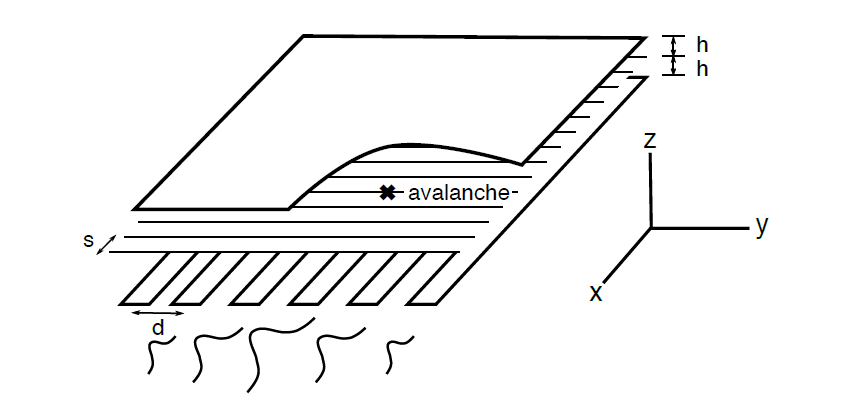
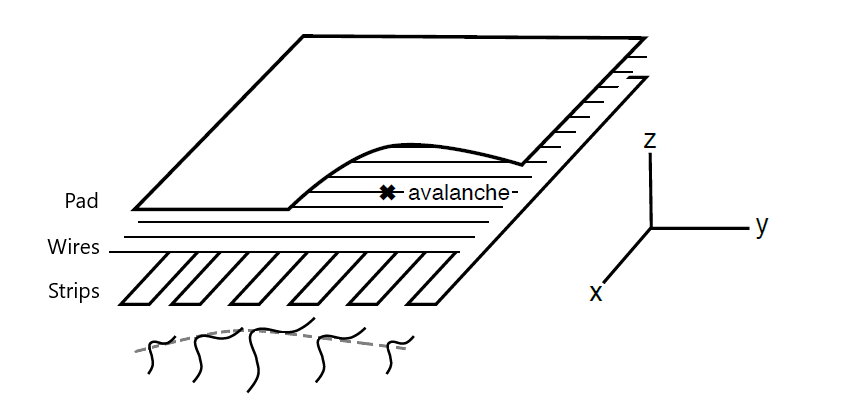
minor edits chap2

diff --git a/chapters/2_Characterization_of_sTGCs_using_cosmic_rays.tex b/chapters/2_Characterization_of_sTGCs_using_cosmic_rays.tex
@@ -32,7 +32,7 @@ Operating the chambers also required gas and high voltage. A pentane-CO$_{2}$ mi
 \section{Rebuilding cosmic muon tracks for characterization}
 % --------------------------------------------------
 
-Many of the high-level characterization metrics required rebuilding muon tracks. For events passing quality cuts \textcolor{red}{[CITE]}, the x- and y-coordinates of the ionization avalanche on each layer were extracted from the signal on the wires and strips respectively for each event, as is sketched in figure~\ref{fig:mwpc_coords}. In this work, $x$ was the coordinate perpendicular to the wires and $y$ was the coordinate perpendicular to the strips, as is drawn in figure~\ref{fig:mwpc_coords}.
+Many of the high-level characterization metrics required rebuilding muon tracks. For events passing quality cuts~\cite{lefebvre_tgc_analysis}, the x- and y-coordinates of the ionization avalanche on each layer were extracted from the signal on the wires and strips respectively for each event, as is sketched in figure~\ref{fig:mwpc_coords}. In this work, $x$ was the coordinate perpendicular to the wires and $y$ was the coordinate perpendicular to the strips, as is drawn in figure~\ref{fig:mwpc_coords}.
 
 The x-coordinate was taken as the center of the wire group with the maximum PDO, since the wire groups' pitch (\SI{36}{\milli\meter}) was larger than the typical charge spreading. Assuming that the true x-position of the hit was uniformly distributed over the width of the wire group, the uncertainty in the x-position was given by $\frac{36~mm}{\sqrt{12}} = 10~mm$~\cite{Sauli:117989}.
 
@@ -54,9 +54,8 @@ The y-coordinate was taken as the Gaussian mean of the PDO distribution across g
 
 The uncertainty in the y-coordinate could have been taken as the fitted cluster mean's statistical uncertainty; however, after comparing the difference in cluster means for different fitting algorithms in appendix~\ref{sec:appendix_clustering_cluster_fit}, \SI{60}{\micro\meter} of uncertainty was assigned.
 
-The coordinates of the avalanches' on all layers were used to reconstruct tracks in x and y respectively. Most tracks passing quality cuts were probably cosmic muons, but $\delta$-rays and noise contributed. The tracks were then used to calculate characterization metrics like electrode efficiency and spatial resolution, the details of which are discussed in~\cite{lefebvre_thesis}.
+The coordinates of the avalanches' on all layers were used to reconstruct tracks in x and y respectively. Most tracks passing quality cuts were probably cosmic muons, but of course some $\delta$-rays and noise contributed. The tracks were then used to calculate characterization metrics like electrode efficiency and spatial resolution, the details of which are discussed in~\cite{lefebvre_thesis}.
 
-%TODO : edit fig:coord_mwpc. Try and "fit" the cluster in the diagram and label the layers "pad, wires, strips"
 %TODO : Figure out the correct citation for quality cuts. Is Benoit's thesis ok or should you just point people to the software? 
 %TODO : Should I be citing sections as opposed to the whole thesis? I feel like I'll keep citing different sections of thesis.
 %TODO : Include hit and track map? - yes if Brigitte says you need a num_entries plot in chapter 3. You didn't include it because you never mention wire supports in TH2 analysis. But if you want to add num entries for clarity, include cluster map here. Cluster map > raw hits because less cuts and gets across the idea that x is just hit or no hit while y comes from clustering. 
